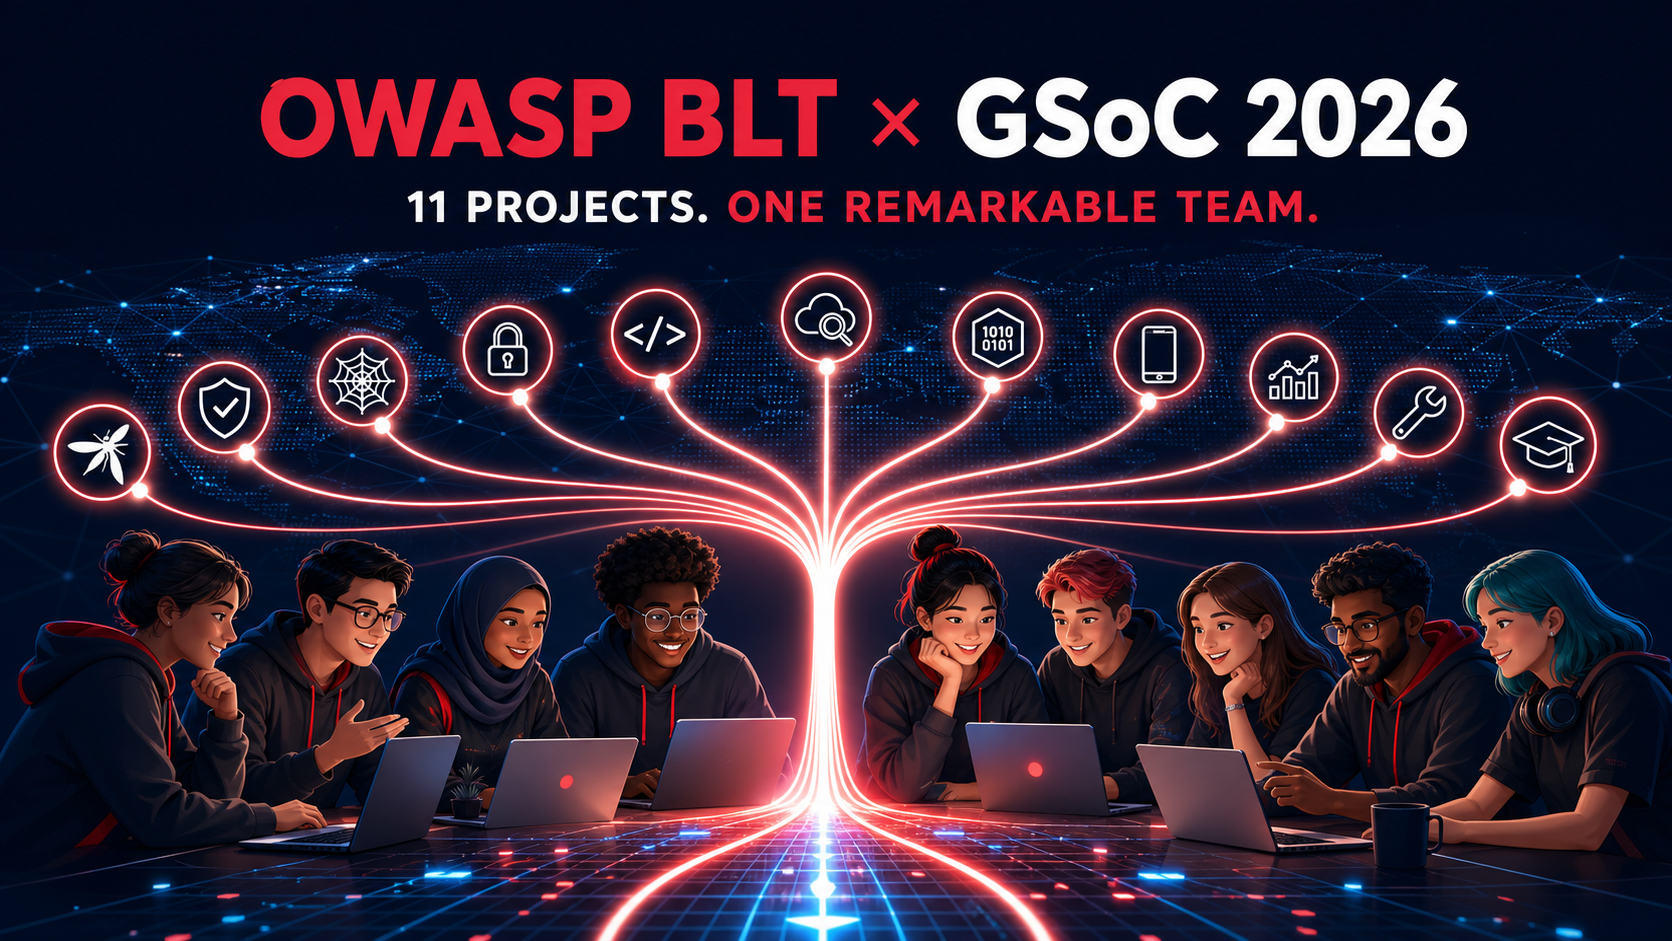
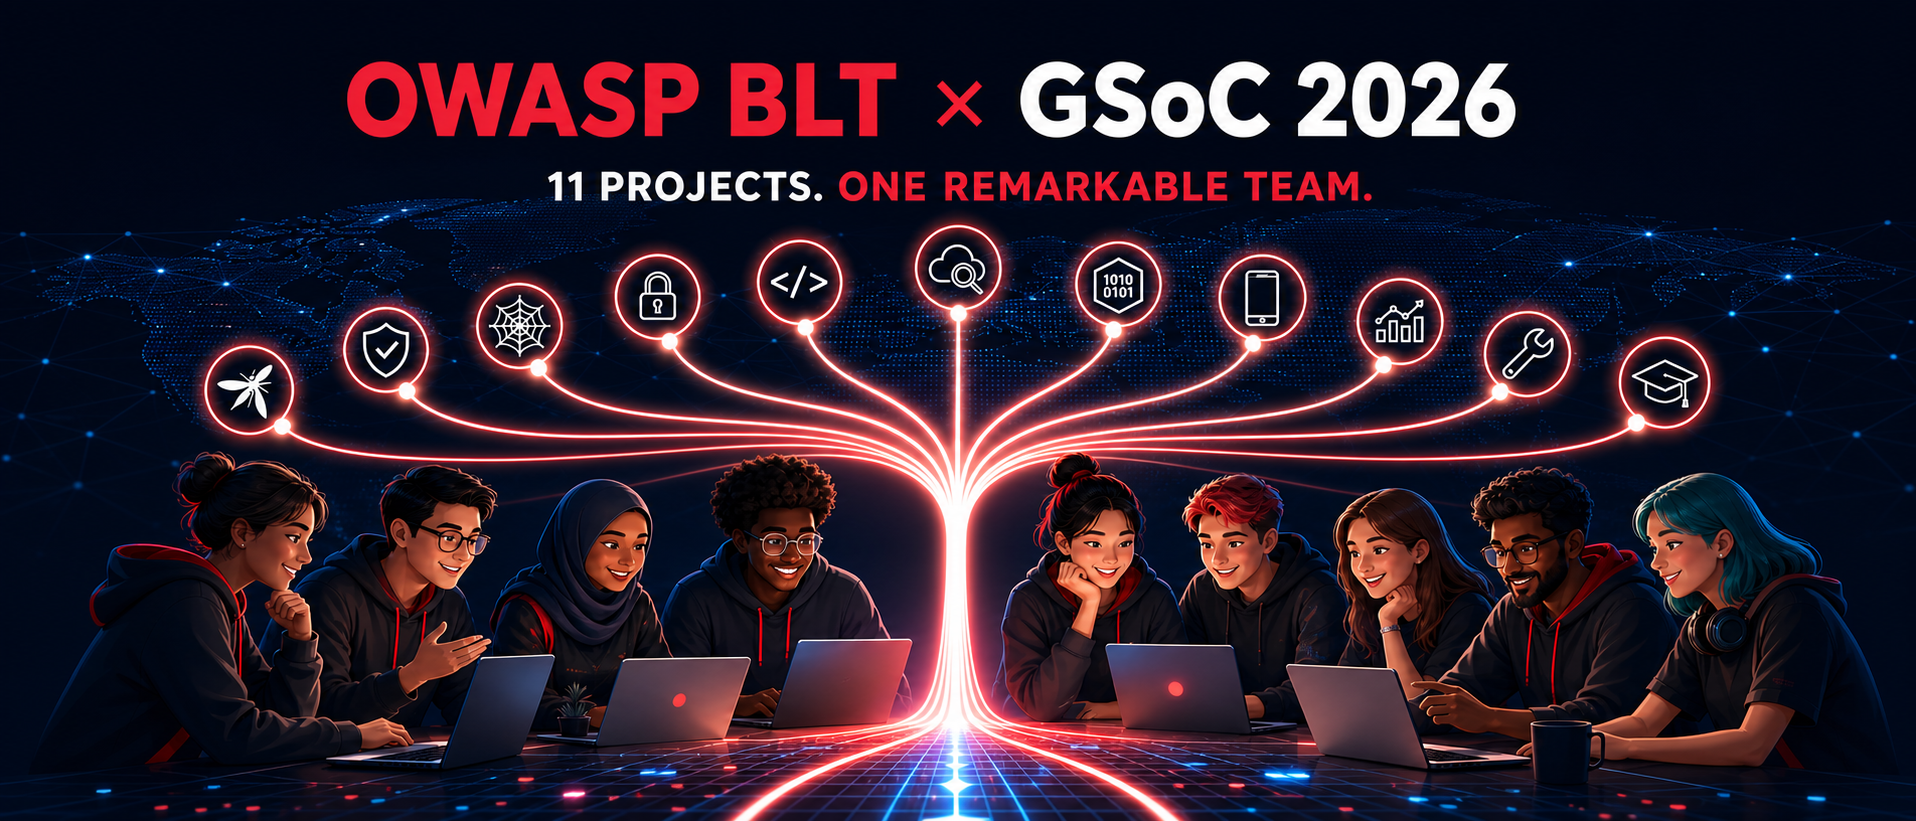
content: restore GSoC article with updated images

diff --git a/blt-gsoc/blog/gsoc-2026/devto-post.md b/blt-gsoc/blog/gsoc-2026/devto-post.md
@@ -1,0 +1,172 @@
+---
+title: "Eleven Projects, One Remarkable Team: Celebrating OWASP BLT’s GSoC 2026"
+published: false
+description: "Meet the contributors and mentors who turned OWASP BLT’s 2026 summer into working security tools, learning platforms, and edge-native infrastructure."
+tags: opensource, security, gsoc, webdev
+cover_image: https://gsoc.owaspblt.org/blog/gsoc-2026/assets/owasp-blt-gsoc-2026-hero.png
+canonical_url: https://gsoc.owaspblt.org/gsoc2026.html
+---
+
+Open source is often measured in commits. The better measure is what those commits make possible.
+
+During GSoC 2026, the OWASP BLT community worked across **11 projects**: four Google Summer of Code projects and seven paid internship projects. The team built zero-trust security pipelines, practical learning experiences, privacy tools, AI-assisted contributor workflows, edge-native services, and the infrastructure needed to run them in production.
+
+By the end of the summer, the portfolio was not a collection of slide decks. Nine projects had live applications or documentation sites, Hackerhouse had a new production domain and healthy database-backed deployment, and the Cloudflare-backed projects had current deployments and completed migrations.
+
+This is the team behind that progress.
+
+## The GSoC projects
+
+### Preetham Poojari — BLT-NetGuardian
+
+Preetham helped turn NetGuardian into a serious zero-trust ingestion and triage pipeline. The system verifies signed finding envelopes, applies replay protection and role-based access, stores metadata in D1, and supports CVE-aware review. The result is a working bridge between distributed security research and accountable triage.
+
+The repository records **90 commits by Preetham during the coding period**, and the deployed service now has scheduled maintenance running through BLT Monitor without consuming another Cloudflare cron slot.
+
+Mentors: **Jisan** and **CarlaV**.
+
+![BLT-NetGuardian live site](https://gsoc.owaspblt.org/blog/gsoc-2026/screenshots/01-netguardian.png)
+
+[Try NetGuardian](https://netguardian.owaspblt.org/) · [Source code](https://gitlab.com/owasp-blt/blt-netguardian)
+
+### Sakshee Suman — BLT-University
+
+Sakshee advanced BLT-University as a hands-on security learning platform built around a clear loop: identify a vulnerability, explain it, and fix it. The project connects practical labs with real vulnerability insights and makes security education something learners can actively do.
+
+The local history shows **40 coding-period commits across Sakshee’s author identities**. The result is live, browsable, and designed to make the next generation of security contributors more capable from day one.
+
+Mentors: **BishalDas** and **Chigorin.1337**.
+
+![BLT-University live site](https://gsoc.owaspblt.org/blog/gsoc-2026/screenshots/02-university.png)
+
+[Explore BLT-University](https://university.owaspblt.org/) · [Source code](https://gitlab.com/owasp-blt/blt-university)
+
+### Md Kaif Ansari — BLT-Next
+
+Md Kaif worked on the broadest architectural challenge in the programme: moving BLT from a tightly coupled Django application toward modular, edge-first services. BLT-Next demonstrates the direction with a static frontend, Cloudflare Workers, D1-backed services, and independently deployable capabilities.
+
+That work reaches beyond one repository. The programme roster credits Md Kaif across BLT-Next and supporting BLT services including API, docs, hackathons, jobs, monitor, newsletter, and Zero. The success here is architectural: a clearer path to a capable platform with dramatically lower hosting overhead.
+
+Mentors: **DonnieBLT** and **Rinkit Adhana**.
+
+![BLT-Next live site](https://gsoc.owaspblt.org/blog/gsoc-2026/screenshots/03-next.png)
+
+[Visit BLT-Next](https://next.owaspblt.org/) · [Source code](https://gitlab.com/owasp-blt/blt-next)
+
+### Ananya — BLT-Vanish
+
+Ananya evolved BLT-Vanish toward a universal identity shield: phishing detection, credential hygiene, suspicious-login correlation, encrypted workflows, and explainable risk scoring across web and Flutter clients.
+
+With **59 coding-period commits** in the web repository, Ananya moved the project from an idea toward a cohesive privacy and personal-security experience. The production web app is now served from its dedicated OWASP BLT subdomain.
+
+Mentors: **Ankitsinghsisodya** and **Ramansh**.
+
+![BLT-Vanish live site](https://gsoc.owaspblt.org/blog/gsoc-2026/screenshots/04-vanish.png)
+
+[Try BLT-Vanish](https://vanish.owaspblt.org/) · [Source code](https://gitlab.com/owasp-blt/blt-vanish)
+
+## The paid internship projects
+
+### Savio D’souza — BLT-Preflight
+
+Savio built an ambitious local-first contribution assistant spanning the editor, pre-commit checks, and CI. Its hybrid classifier and OWASP-documentation retrieval layer are designed to catch risk while a contributor can still act on the feedback—not after a review cycle has already stalled.
+
+Savio authored **28 coding-period commits** across his recorded identities. Preflight is deployed as a live interactive experience, with the repository retaining a second optional API target for future provisioning.
+
+Volunteer mentor: **Raj Gupta**.
+
+![BLT-Preflight live site](https://gsoc.owaspblt.org/blog/gsoc-2026/screenshots/05-preflight.png)
+
+[Open BLT-Preflight](https://preflight.owaspblt.org/) · [Source code](https://gitlab.com/owasp-blt/blt-preflight)
+
+### Ojaswa — BLT-Toasty
+
+Ojaswa’s Toasty tackles one of vulnerability management’s hardest operational problems: turning raw reports into safe, useful, structured intelligence. It combines fail-closed PII redaction, AI summarization, duplicate detection, webhook ingestion, durable state, and MCP export.
+
+The coding period includes **74 commits by Ojaswa**, ending with a polished architecture showcase and quick-start experience. Toasty’s Worker, state migrations, and public site are deployed and tested.
+
+![BLT-Toasty live site](https://gsoc.owaspblt.org/blog/gsoc-2026/screenshots/06-toasty.png)
+
+[Meet Toasty](https://toasty.owaspblt.org/) · [Source code](https://gitlab.com/owasp-blt/blt-toasty)
+
+### Nachiket Roy — BLT-MCP
+
+Nachiket made Model Context Protocol practical for the BLT contributor ecosystem. BLT-MCP gives tools and agents a consistent way to discover capabilities and work with project context instead of relying on brittle, one-off automation.
+
+With **88 coding-period commits**, Nachiket delivered one of the summer’s most active repositories. The live service makes the work immediately discoverable to both contributors and tool builders.
+
+![BLT-MCP live site](https://gsoc.owaspblt.org/blog/gsoc-2026/screenshots/07-mcp.png)
+
+[Explore BLT-MCP](https://mcp.owaspblt.org/) · [Source code](https://gitlab.com/owasp-blt/blt-mcp)
+
+### Karuna Rapolu — BLT-SafeCloak
+
+Karuna’s SafeCloak work focused on privacy guardrails and safer user workflows. The project gives users a security-focused place to reason about exposure and make better privacy decisions without turning the experience into an expert-only tool.
+
+The summer established a deployed, tested baseline and a public experience on its own subdomain—an important foundation for deeper privacy automation.
+
+![BLT-SafeCloak live site](https://gsoc.owaspblt.org/blog/gsoc-2026/screenshots/08-safecloak.png)
+
+[Visit SafeCloak](https://safecloak.owaspblt.org/) · [Source code](https://gitlab.com/owasp-blt/blt-safecloak)
+
+### Rudra Pratap Singh — BLT-Hackerhouse
+
+Rudra helped build Hackerhouse as a collaboration pipeline for hands-on offensive and defensive security work. The application now has a real production stack: a Python Worker, Durable Objects, a D1 database, queue-backed events, applied migrations, and regression-tested health reporting.
+
+Rudra authored **48 coding-period commits**. Hackerhouse also reached a particularly visible milestone this summer: a healthy production deployment at its new dedicated domain.
+
+![BLT-Hackerhouse live site](https://gsoc.owaspblt.org/blog/gsoc-2026/screenshots/09-hackerhouse.png)
+
+[Visit Hackerhouse](https://hackerhouse.owaspblt.org/) · [Source code](https://gitlab.com/owasp-blt/blt-hackerhouse)
+
+### Sidd190 — BLT-Autopatch
+
+Sidd190 took on automated patch generation and validation: an idea with enormous potential to shorten the distance between discovering a vulnerability and safely remediating it.
+
+Autopatch is the portfolio’s earliest-stage project. Its success this summer was establishing the project home and a clear direction for the work ahead. Calling that out honestly matters: healthy open source celebrates shipped systems and the people laying foundations for the next contributors.
+
+![BLT-Autopatch source project](https://gsoc.owaspblt.org/blog/gsoc-2026/screenshots/10-autopatch.png)
+
+[Source code](https://gitlab.com/owasp-blt/blt-autopatch)
+
+### Jayant — BLT-MAYO
+
+Jayant developed BLT-MAYO as a shell dangerous-execution analyzer—a practical quality and safety tool for BLT engineering workflows. The repository now contains its Python package, tests, documentation, configuration example, and a focused analyzer design.
+
+Jayant authored **three coding-period commits across his recorded identities**, progressing the project from initial structure into working analysis and test foundations.
+
+![BLT-MAYO source project](https://gsoc.owaspblt.org/blog/gsoc-2026/screenshots/11-mayo.png)
+
+[Source code](https://gitlab.com/owasp-blt/blt-mayo)
+
+## What the team achieved together
+
+The individual stories are impressive. The shared outcome is bigger:
+
+- **11 contributors** received ownership of meaningful, security-focused projects.
+- **Nine projects** now have live applications or documentation experiences.
+- Cloudflare-backed releases were brought current and smoke-tested.
+- D1 migrations were applied and verified with no pending migration queues.
+- Hackerhouse gained a production database, queue, Durable Objects, and its own domain.
+- NetGuardian’s maintenance schedule was integrated without exceeding the account’s five-cron limit.
+- Project discovery now leads with live experiences and clearly identifies GitLab as the source-code home.
+
+Most importantly, the team produced multiple on-ramps into open-source security: learn with University, protect identities with Vanish, review findings with NetGuardian, improve reports with Toasty, guide contributions with Preflight, and build new automation through MCP.
+
+## From the contributors
+
+The strongest account of a programme comes from the people who built it. Continue with these contributor stories, demos, and community reflections:
+
+- [My GSoC Journey with OWASP BLT](https://dev.to/owaspblt/my-gsoc-journey-with-owasp-blt-4lm8)
+- [Building an AI-Powered Security TUI with Rust and MCP](https://dev.to/owaspblt/building-an-ai-powered-security-tui-with-rust-and-mcp-oj9)
+- [GSoC 2026 contributor reflection on LinkedIn](https://lnkd.in/p/gQkmQWXM)
+- [GSoC 2026 project progress shared on LinkedIn](https://www.linkedin.com/feed/update/urn:li:activity:7497988651306430465/)
+- [GSoC 2026 project showcase on LinkedIn](https://lnkd.in/p/dQgYPZfM)
+
+## Thank you
+
+Thank you to every contributor, GSoC mentor, volunteer mentor, reviewer, tester, and community member who made room for this work to grow. Great mentoring is invisible in a diff, but visible everywhere in a project that becomes clearer, safer, and more welcoming over time.
+
+Explore the [full OWASP BLT GSoC 2026 team and project page](https://gsoc.owaspblt.org/gsoc2026.html), visit the [live project directory](https://waypoint.owaspblt.org/), and find the complete [source-code organization on GitLab](https://gitlab.com/owasp-blt).
+
+The summer is over. The work—and the community behind it—is just getting started.
